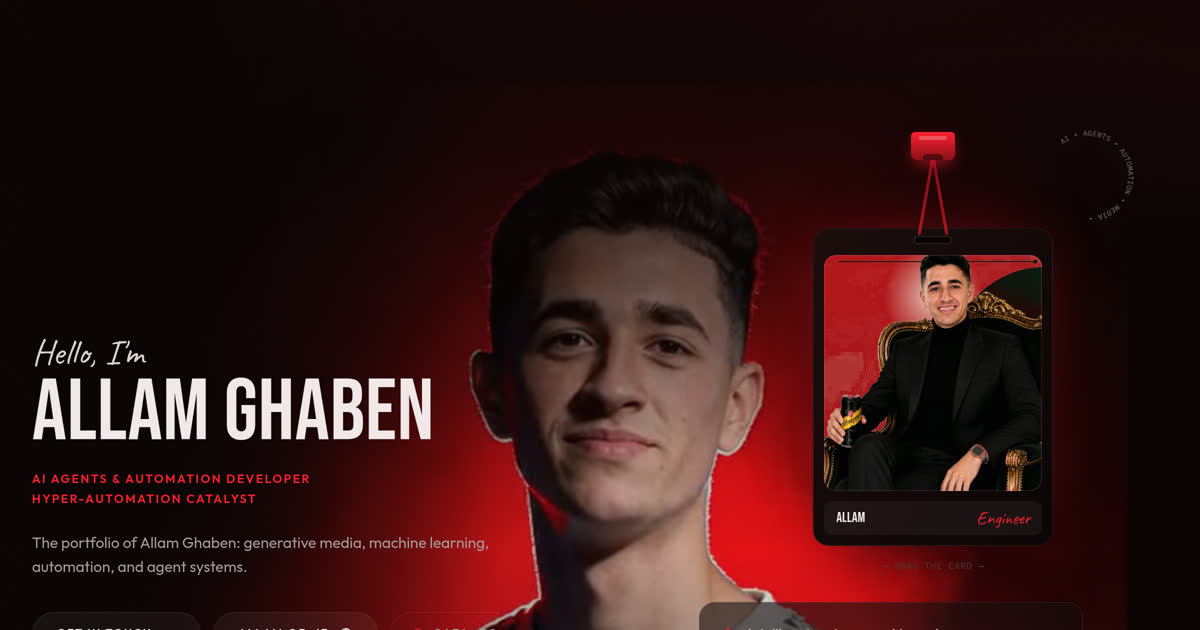
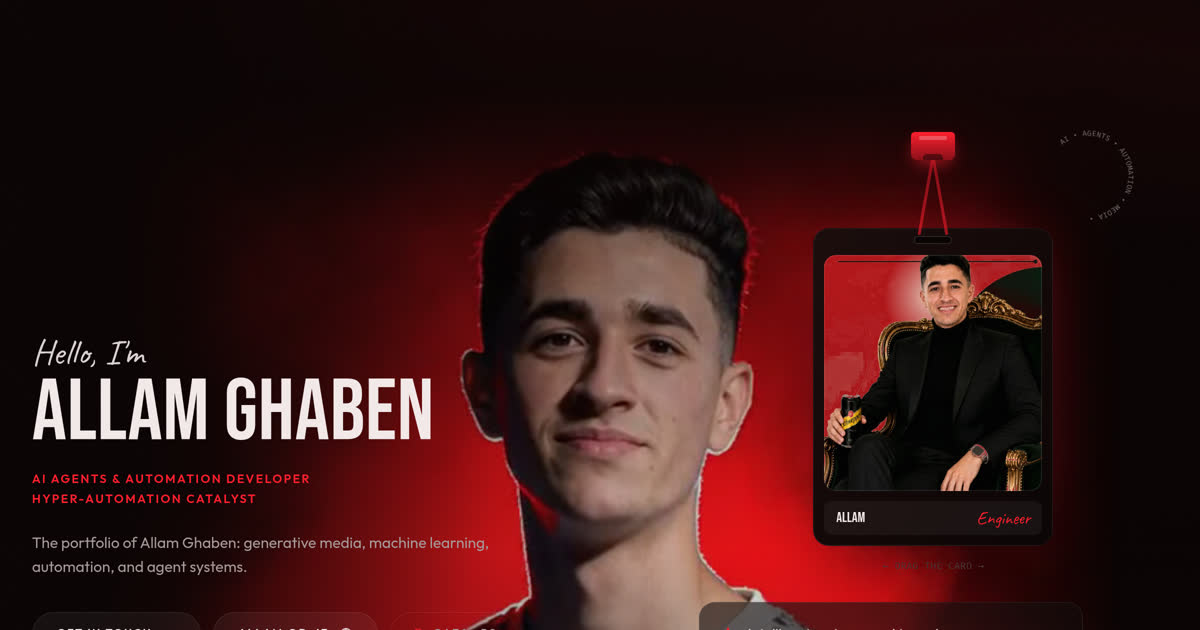
Land the clip's feather on the real frame edge, using the source site's mask
The video edges were still showing. Measuring the element explained why: with
object-contain the element was 1280px wide while the frame only painted
1034px of it, leaving 123px of letterbox each side. The mask was fading
against the element's edge, so at the frame's actual edge it was still ~40%
opaque — which is exactly the visible border.

- The wrapper now carries the frame's 3:4 ratio and the video covers it, so
  element and painted frame are the same box. Asserted in the check: element
  and painted dimensions match at all three widths.
- The feather itself is the source portfolio's own `.video-blend` — two
  linear masks intersected — rather than a radial. A radial cannot work here:
  the subject fills the centre, so any radius tight enough to reach zero
  before the frame edge also fades him. Intersected linear masks keep the
  middle fully opaque and only dissolve the outer band.

An earlier attempt put the aspect ratio on the video rather than the wrapper;
the wrapper's auto width collapsed to 640px and the box never matched.

OG image regenerated.

Verified at 1280/768/390: mask aligned, no horizontal overflow, no page
errors, no failed requests.

Claude-Session: https://claude.ai/code/session_011Hm43Fk7vKVAqGhMPXy5dZ

diff --git a/components/HeroBackdrop.tsx b/components/HeroBackdrop.tsx
@@ -44,7 +44,7 @@ export default function HeroBackdrop() {
           him prominent the way the reference hero is without pressing him into
           the viewer. Offset from the top so his head clears the floating nav,
           and full height so his lower body runs behind the What I Do cards. */}
-      <div className="absolute inset-x-0 top-[5%] h-full sm:top-[6%]">
+      <div className="absolute left-1/2 top-[5%] aspect-[3/4] h-full -translate-x-1/2 sm:top-[6%]">
         <video
           ref={videoRef}
           poster="/assets/hero-poster.jpg"
@@ -53,11 +53,10 @@ export default function HeroBackdrop() {
           loop
           playsInline
           preload="metadata"
-          /* Feathered to nothing well inside its own frame, so the clip's red
-             backdrop falls away into the page's black instead of ending on a
-             rectangle. Full opacity: he should read as the lit subject on a
-             dark page, not something seen through a red wash. */
-          className="h-full w-full object-contain object-[56%_top] [mask-image:radial-gradient(ellipse_58%_62%_at_56%_44%,#000_28%,transparent_88%)] [mask-mode:alpha]"
+          /* The box carries the frame's own 3:4 ratio and the video covers it
+             exactly, so .video-blend's feather lands on the real frame edge
+             rather than on letterbox padding. */
+          className="video-blend h-full w-full object-cover object-top"
         >
           <source src="/assets/hero-loop.webm" type="video/webm" />
           <source src="/assets/hero-loop.mp4" type="video/mp4" />

diff --git a/app/globals.css b/app/globals.css
@@ -314,3 +314,30 @@ body::after {
   border-radius: 999px;
   padding: 0.3rem 0.7rem;
 }
+
+/* ------------------------------------------------------------------ */
+/*  Video edge feather — the source portfolio's own .video-blend       */
+/* ------------------------------------------------------------------ */
+/*
+ * Two linear masks intersected, so the middle of the frame stays fully
+ * opaque and only the outer band dissolves.
+ *
+ * A radial mask cannot do this job: the subject fills the centre of the
+ * frame, so any radius tight enough to reach zero before the frame edge
+ * also fades him. This keeps him at full opacity and only eats the border.
+ *
+ * The element it is applied to must be the same size as the painted video
+ * (aspect-ratio box + object-cover). With object-contain the element is
+ * wider than the frame, the mask fades against the element edge instead of
+ * the frame edge, and the frame's own border stays visible.
+ */
+.video-blend {
+  -webkit-mask-image:
+    linear-gradient(to right, transparent 0%, #000 16%, #000 84%, transparent 100%),
+    linear-gradient(to bottom, transparent 0%, #000 11%, #000 92%, transparent 100%);
+  -webkit-mask-composite: source-in;
+  mask-image:
+    linear-gradient(to right, transparent 0%, #000 16%, #000 84%, transparent 100%),
+    linear-gradient(to bottom, transparent 0%, #000 11%, #000 92%, transparent 100%);
+  mask-composite: intersect;
+}
